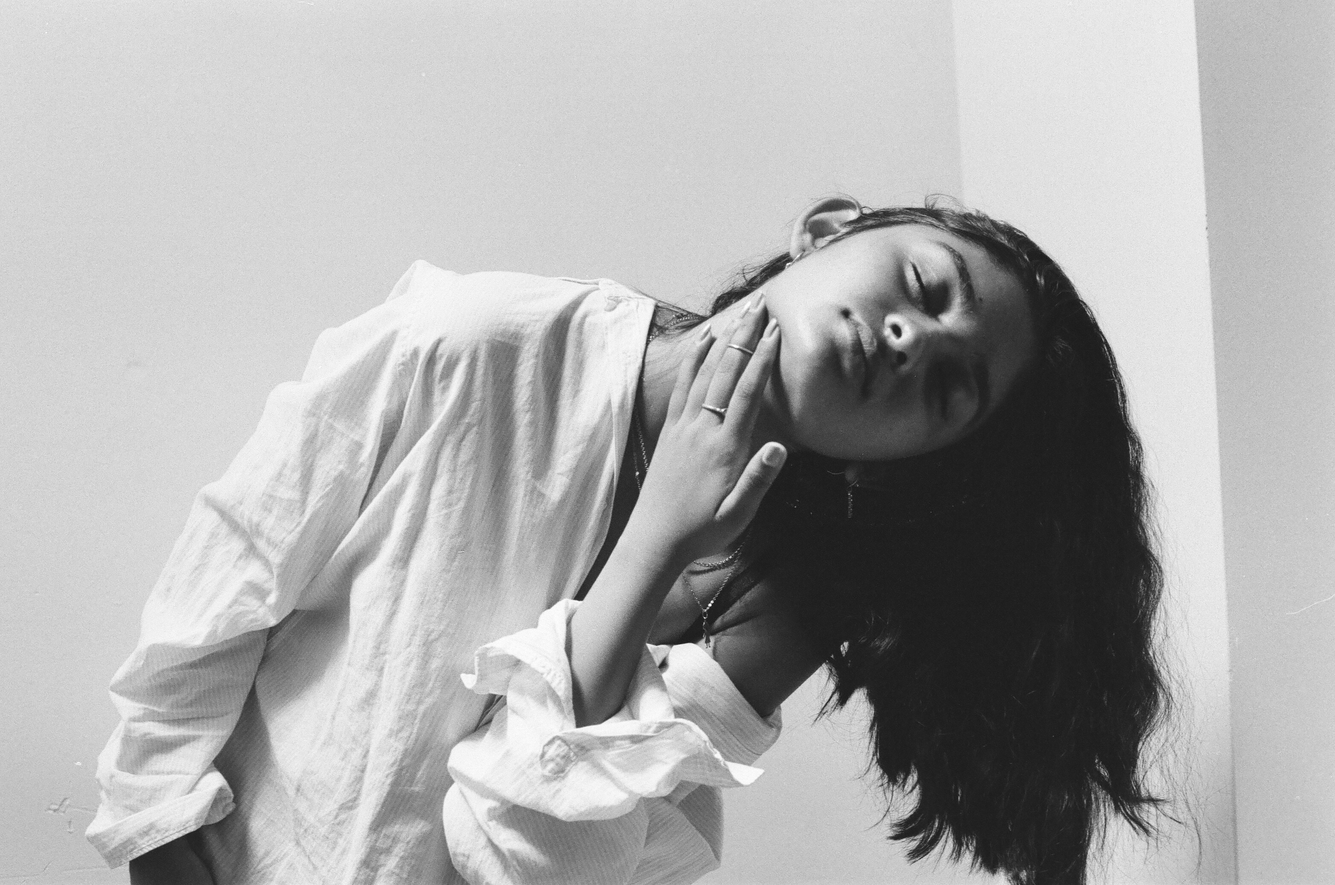
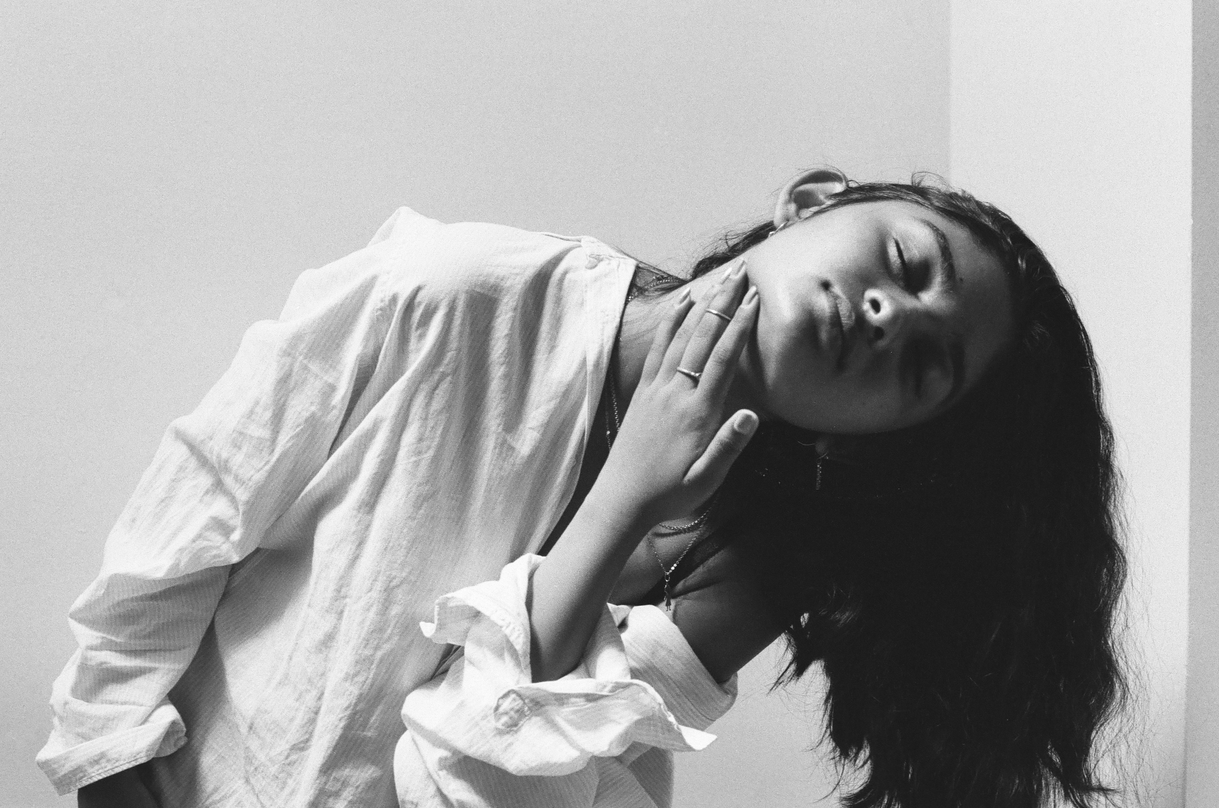
testing new image + next button

diff --git a/index.html b/index.html
@@ -50,12 +50,8 @@
   <div class="container">
     <div class="row">
       <div class="col-lg-12 text-center">
-        <h1 class="mt-5"></h1>
-        <p class="lead">under construction
-        <br>
-        <!-- <a href="https://www.instagram.com/doyoufeellikeglitter/">@doyoufeellikeglitter</a> -->
-        </p>
-
+        <h1 class="mt-5">Josue Moran</h1>
+        <!-- <p class="lead">Josue Moran</p> -->
         <!-- <ul class="list-unstyled">
           <li>Bootstrap 4.3.1</li>
           <li>jQuery 3.4.1</li>
@@ -69,80 +65,14 @@
 <br>
 <br>
 
-<!-- <div class="text-center">
-  <img src="images\selfP\000030390022.jpg"  style="width:50%" class="img-fluid" alt="Responsive image">
-  <br>
-  <br>
-  <p>Canon A-1 - CineStill 800</p>
-</div>
-
-
-<br>
-<br>
-<br>
-<br> -->
 <div class="text-center">
-  <img src="images\000348850036.jpg"  class="illustration" style='max-width: 500px'>
+  <a href="#" class="previous round">&#8249;</a>
+  <img src="images\000348850003.jpg"  class="illustration" style='max-width: 500px'>
+  <a href="#" class="next round">&#8250;</a>
   <br>
   <br>
   <p>Canon A-1 - HP5 Pushed to 800</p>
 </div>
-
-<!-- <br>
-<br>
-<br>
-<br> -->
-
-<!--
-<div class="text-center">
-  <img src="images\selfP\000023100004.jpg"  style="width:50%" class="img-fluid" alt="Responsive image">
-  <br>
-  <br>
-  <p>Canon A-1 - Kodak Portra 800</p>
-</div>
-
-<br>
-<br>
-<br>
-<br> -->
-
-<!--
-<div class="text-center">
-  <img src="images\selfP\000247450022.jpg"  style="width:50%" class="img-fluid" alt="Responsive image">
-  <br>
-  <br>
-  <p>Canon A-1 - Kodak Tri-X 400</p>
-</div>
-
-<br>
-<br>
-<br>
-<br> -->
-
-
-<!-- <div class="text-center">
-  <img src="images\selfP\000247450024.jpg"  style="width:50%" class="img-fluid" alt="Responsive image">
-  <br>
-  <br>
-  <p>Canon A-1 - Kodak Tri-X 400</p>
-</div>
-
-<br>
-<br>
-<br>
-<br> -->
-
-<!-- <div class="text-center">
-  <img src="images\selfP\000247450020.jpg"  style="width:50%" class="img-fluid" alt="Responsive image">
-  <br>
-  <br>
-  <p>Canon A-1 - Kodak Tri-X 400</p>
-</div>
-
-<br>
-<br>
-<br>
-<br> -->
 
 
 

diff --git a/vendor/bootstrap/css/style.css b/vendor/bootstrap/css/style.css
@@ -1,3 +1,29 @@
 .illustration {
-  width: 90%;
+  width: 80%;
+}
+
+
+.head{
+  font-size:2vw
+}
+
+a {
+  text-decoration: none;
+  display: inline-block;
+  padding: 4px 8px;
+}
+
+a:hover {
+  background-color: #ddd;
+  color: black;
+}
+
+.previous {
+  background-color: #f1f1f1;
+  color: black;
+}
+
+.next {
+  background-color: #f1f1f1;
+  color: black;
 }
